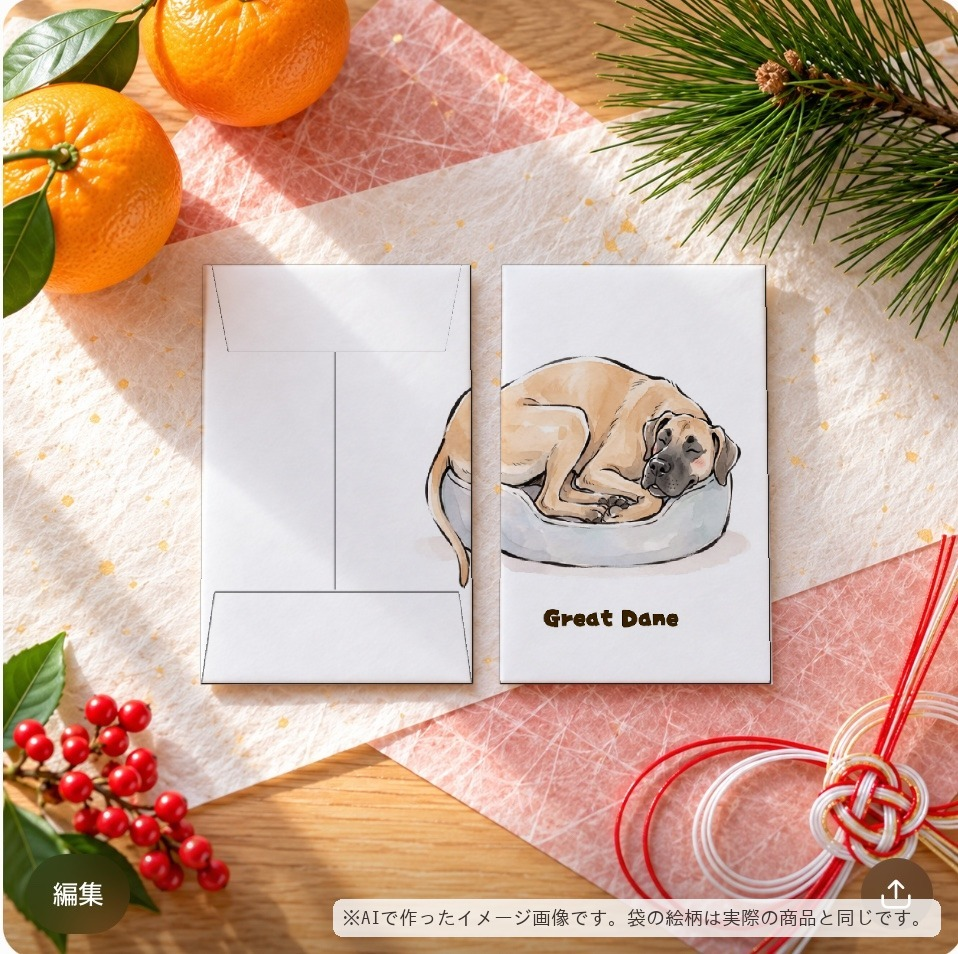
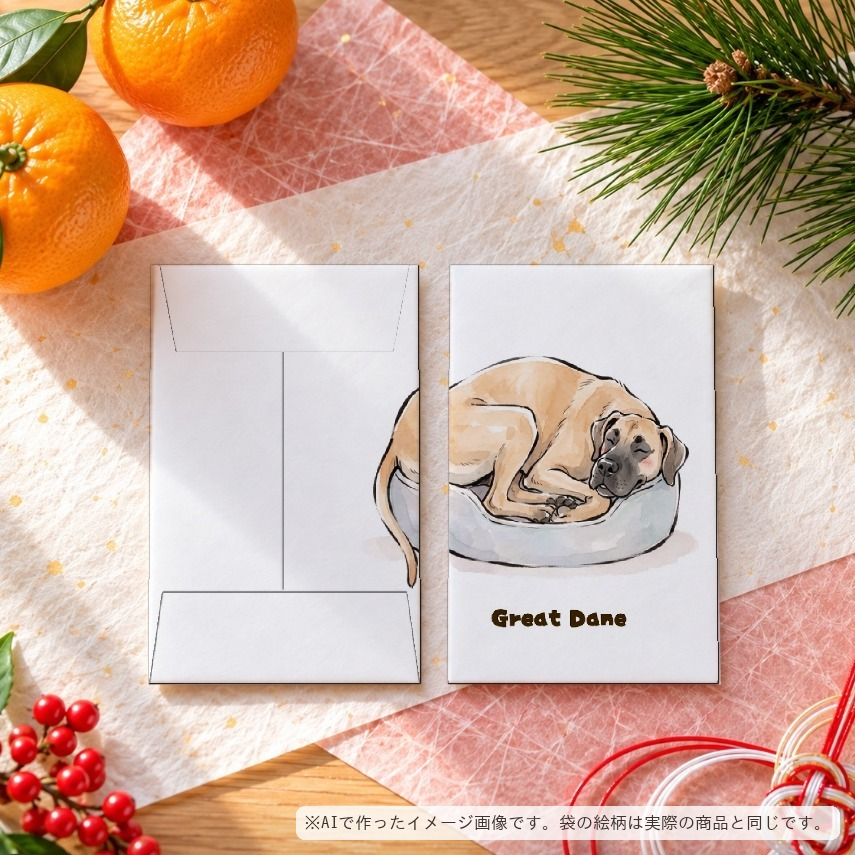
グレート・デーンの場面写真から、Geminiの画面のボタンを切り取って外した
Claude-Session: https://claude.ai/code/session_01QWjhnwkGtLBYh5aBhsN5Vu

diff --git a/shop/make_scene_blank.py b/shop/make_scene_blank.py
@@ -19,6 +19,9 @@ SCENES = {
     ]),
 }
 
+# 切り取る範囲(左, 上, 右, 下)。下の角のボタンを外す
+CROP = {"greatdane_2": (52, 0, 907, 855)}
+
 
 def coeffs(dst, src):
     A, B = [], []
@@ -50,5 +53,8 @@ for art_path, quad in items:
     res = np.clip(warped / paper * light * white, 0, 255)
     al = (np.asarray(mask.filter(ImageFilter.GaussianBlur(0.7))).astype(float) / 255)[..., None]
     out = out * (1 - al) + res * al
-Image.fromarray(out.astype(np.uint8)).save(HERE / f"scene_{name}.jpg", quality=92)
+res_im = Image.fromarray(out.astype(np.uint8))
+if name in CROP:  # Geminiの画面のボタン(編集・共有)が写っているとき、正方形に切り取って外す
+    res_im = res_im.crop(CROP[name])
+res_im.save(HERE / f"scene_{name}.jpg", quality=92)
 print("done", f"scene_{name}.jpg")
